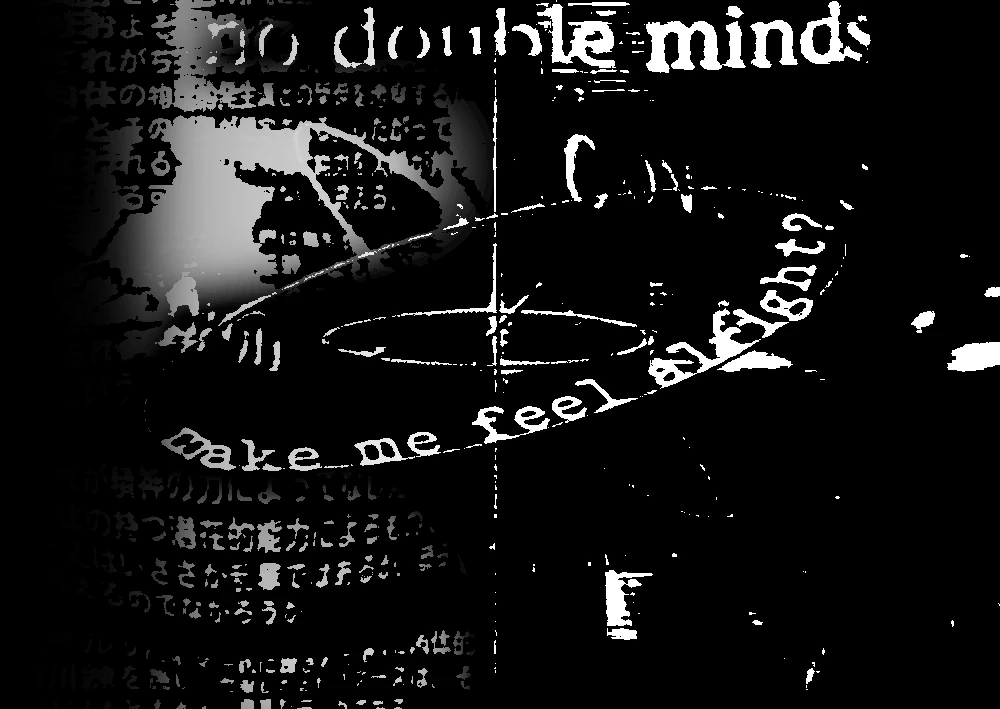
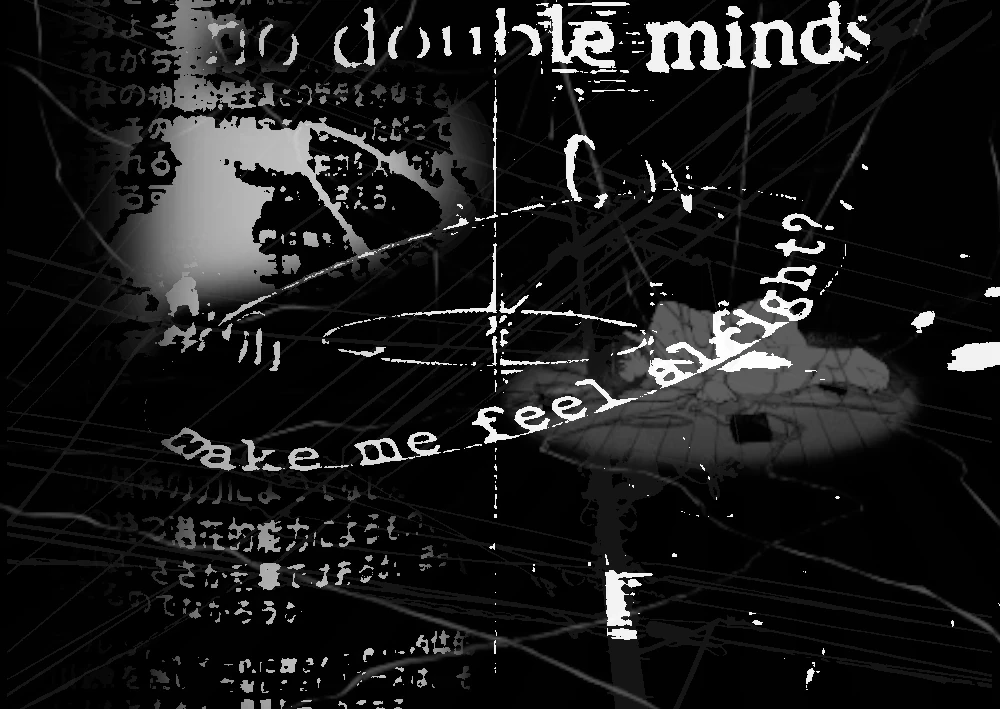
Fix for scroll in chrome + improved graphic.

diff --git a/src/public/background-images.css b/src/public/background-images.css
@@ -48,9 +48,10 @@
   left: 0;
   top: 0;
   pointer-events: none;
-  width: 100vw;
+  width: 100%;
   height: 100%;
   overflow: hidden;
+  overflow-x: hidden;
 }
 
 #bg-overlay div {
